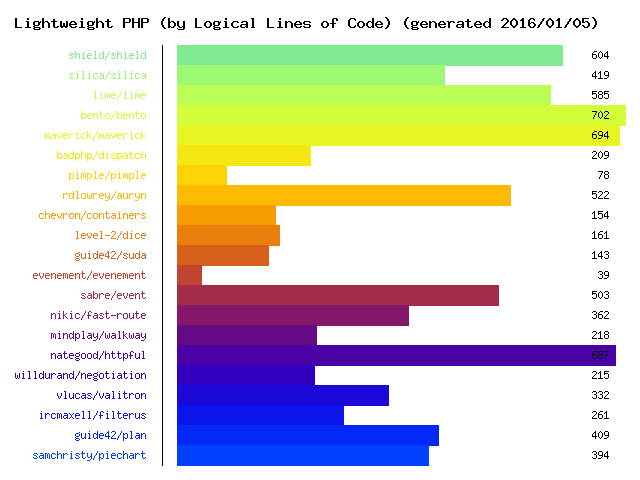
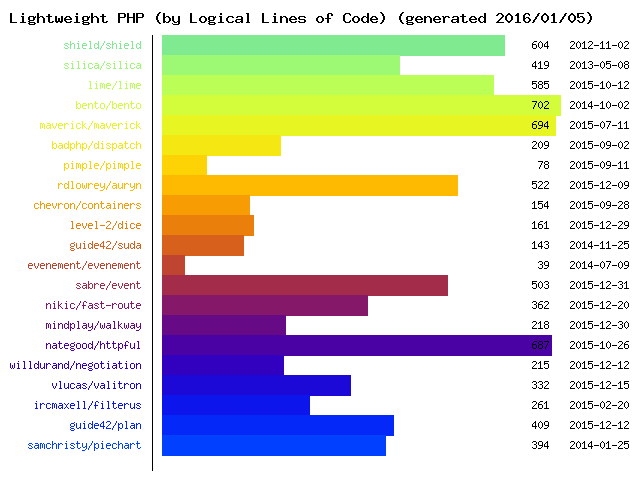
Include date

Changed region(s): [[0.0, 0.0312, 1.0, 0.9688]]

diff --git a/weight.php b/weight.php
@@ -18,12 +18,12 @@ function main(array $argv)
     }
 
     $weight = new Weight($dir);
-    $counts = $weight->run();
-
     $title = 'Lightweight PHP (by Logical Lines of Code)'
            . ' (generated ' . date('Y/m/d') . ')';
 
-    $char = new Chart($counts, $title);
+    list($counts, $extras) = $weight->run();
+
+    $char = new Chart($counts, $title, $extras);
     $char->draw();
     $char->save('weight.png');
 }
@@ -136,13 +136,18 @@ class Weight
     public function run()
     {
         $package = $this->parse($this->root);
+
         $weight = array();
+        $extras = array();
 
         foreach ($package['require'] as $name => $version) {
             $weight[$name] = $this->weightPackage($name);
+            $extras[$name] = array(
+                substr($this->packages[$name]['time'], 0, 10),
+            );
         }
 
-        return $weight;
+        return array($weight, $extras);
     }
 }
 
@@ -151,12 +156,14 @@ class Chart
     const LIGHTWEIGHT = 2000;
 
     protected $data;
+    protected $more;
     protected $title;
     protected $image;
 
-    public function __construct(array $data, $title = null)
+    public function __construct(array $data, $title = null, $extras = array())
     {
         $this->data = $data;
+        $this->more = $extras;
         $this->title = $title;
     }
 
@@ -181,7 +188,7 @@ class Chart
             imageColorAllocate($this->image, 255, 255, 255)
         );
 
-        $padding = 15;
+        $padding = 10;
 
         $x = $padding;
         $y = $padding;
@@ -203,6 +210,18 @@ class Chart
 
         $chartHeight = $height - $y - $padding;
         $barHeight = floor($chartHeight / $count);
+
+        $extrasWidth = 0;
+        foreach ($this->more as $extras) {
+            $extraWidth = 0;
+            foreach ($extras as $extra) {
+                $extraWidth += $fontWidth * strlen($extra) + $padding;
+            }
+
+            if ($extrasWidth < $extraWidth) {
+                $extrasWidth = $extraWidth;
+            }
+        }
 
         $barMaxValue = 0;
         $keyWidthMax = 0;
@@ -232,7 +251,7 @@ class Chart
         imageLine($this->image, $x, $y, $x, $y + $chartHeight, $color);
         $x += $padding;
 
-        $barMaxWidth = $width - $padding - $x;
+        $barMaxWidth = $width - $padding - $x - $extrasWidth;
 
         if ($barMaxValue > self::LIGHTWEIGHT) {
             $xmicro = $x + self::LIGHTWEIGHT * $barMaxWidth / $barMaxValue;
@@ -252,10 +271,20 @@ class Chart
                 $colors[$key]
             );
 
-            $tmpX = $x + $barMaxWidth - $fontWidth * strlen($value) - $padding;
+            $valueWidth = $fontWidth * strlen($value);
+
+            $tmpX = $x + $barMaxWidth - $valueWidth - $padding;
             $tmpY = ($tmpY1 + $tmpY2 - $fontHeight) / 2;
 
             imageString($this->image, $font, $tmpX, $tmpY, $value, $color);
+
+            $extraWidth = $padding;
+            foreach ($this->more[$key] as $extra) {
+                $tmpX = $x + $barMaxWidth + $extraWidth;
+                $extraWidth += $fontWidth * strlen($extra) + $padding;
+
+                imageString($this->image, $font, $tmpX, $tmpY, $extra, $color);
+            }
 
             $i++;
         }
